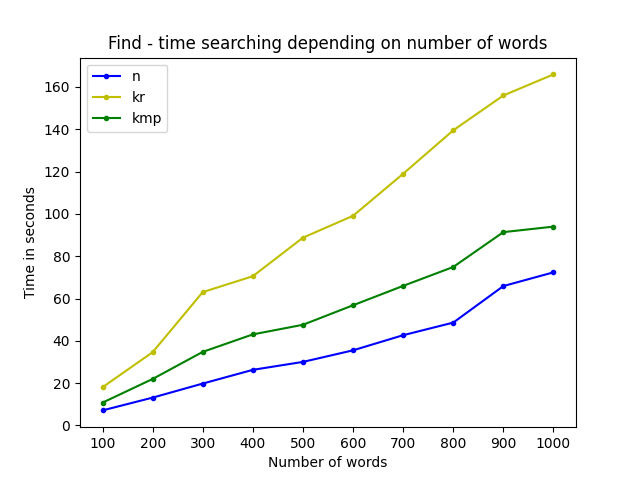
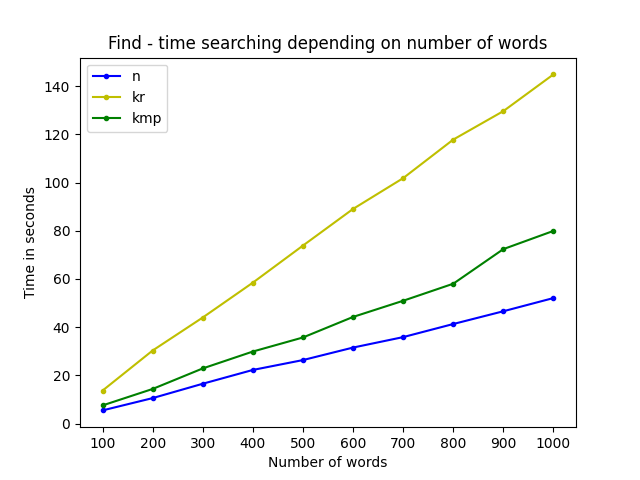
Corrections

diff --git a/AISDI-22L-5-Wyszukiwanie-Wzorca/kr.py b/AISDI-22L-5-Wyszukiwanie-Wzorca/kr.py
@@ -2,13 +2,6 @@ BASE = 128  # ASCII characters fit, polish signs don't - I assume they are rare
 PRIME_MODULUS = 48247
 
 
-def compare(string, text, begin):
-    for i in range(len(string)):
-        if text[begin + i] != string[i]:
-            return False
-    return True
-
-
 def hash(string, length, begin=0):
     result = ord(string[begin])
     for i in range(1, length):
@@ -35,18 +28,19 @@ def find(string, text):
     (list): lista pozycji w 'text' (w kolejności rosnącej), od
     których zaczyna się 'string'
     """
-    base_offset = (BASE ** (len(string) - 1)) % PRIME_MODULUS
-
     if string == "":
         return list(range(len(text)))
     if len(text) < len(string):
         return []
+
+    base_offset = (BASE ** (len(string) - 1)) % PRIME_MODULUS
+
     results = []
     string_hash = hash(string, len(string))
-    current_hash = hash(text, len(string))
+    current_hash = hash(text, len(string), 0)
 
     if string_hash == current_hash:
-        if compare(string, text, 0):
+        if string == text[0:len(string)]:
             results.append(0)
 
     for i in range(1, len(text) - len(string) + 1):
@@ -54,6 +48,6 @@ def find(string, text):
             current_hash, text[i - 1], text[i + len(string) - 1], base_offset
         )
         if current_hash == string_hash:
-            if compare(string, text, i):
+            if string == text[i:i + len(string)]:
                 results.append(i)
     return results

diff --git a/AISDI-22L-5-Wyszukiwanie-Wzorca/n.py b/AISDI-22L-5-Wyszukiwanie-Wzorca/n.py
@@ -1,10 +1,3 @@
-def compare(string, text, begin):
-    for i in range(len(string)):
-        if text[begin + i] != string[i]:
-            return False
-    return True
-
-
 def find(string, text):
     """
     Naive Algorithm
@@ -17,6 +10,6 @@ def find(string, text):
     """
     results = []
     for i in range(len(text) - len(string) + 1):
-        if compare(string, text, i):
+        if text[i:(i + len(string))] == string:
             results.append(i)
     return results

diff --git a/AISDI-22L-5-Wyszukiwanie-Wzorca/kmp.py b/AISDI-22L-5-Wyszukiwanie-Wzorca/kmp.py
@@ -15,7 +15,7 @@ def find(string, text):
             if j == len(string):
                 positions.append(i - j)
                 j = match_table[j - 1]
-        elif i < len(text) and string[j] != text[i]:
+        elif i < len(text):
             if j:
                 j = match_table[j - 1]
             else:
@@ -24,7 +24,6 @@ def find(string, text):
 
 
 def compute_match_table_array(string):
-
     match_table = [0] * len(string)
     suffix_len = 0
     i = 1
